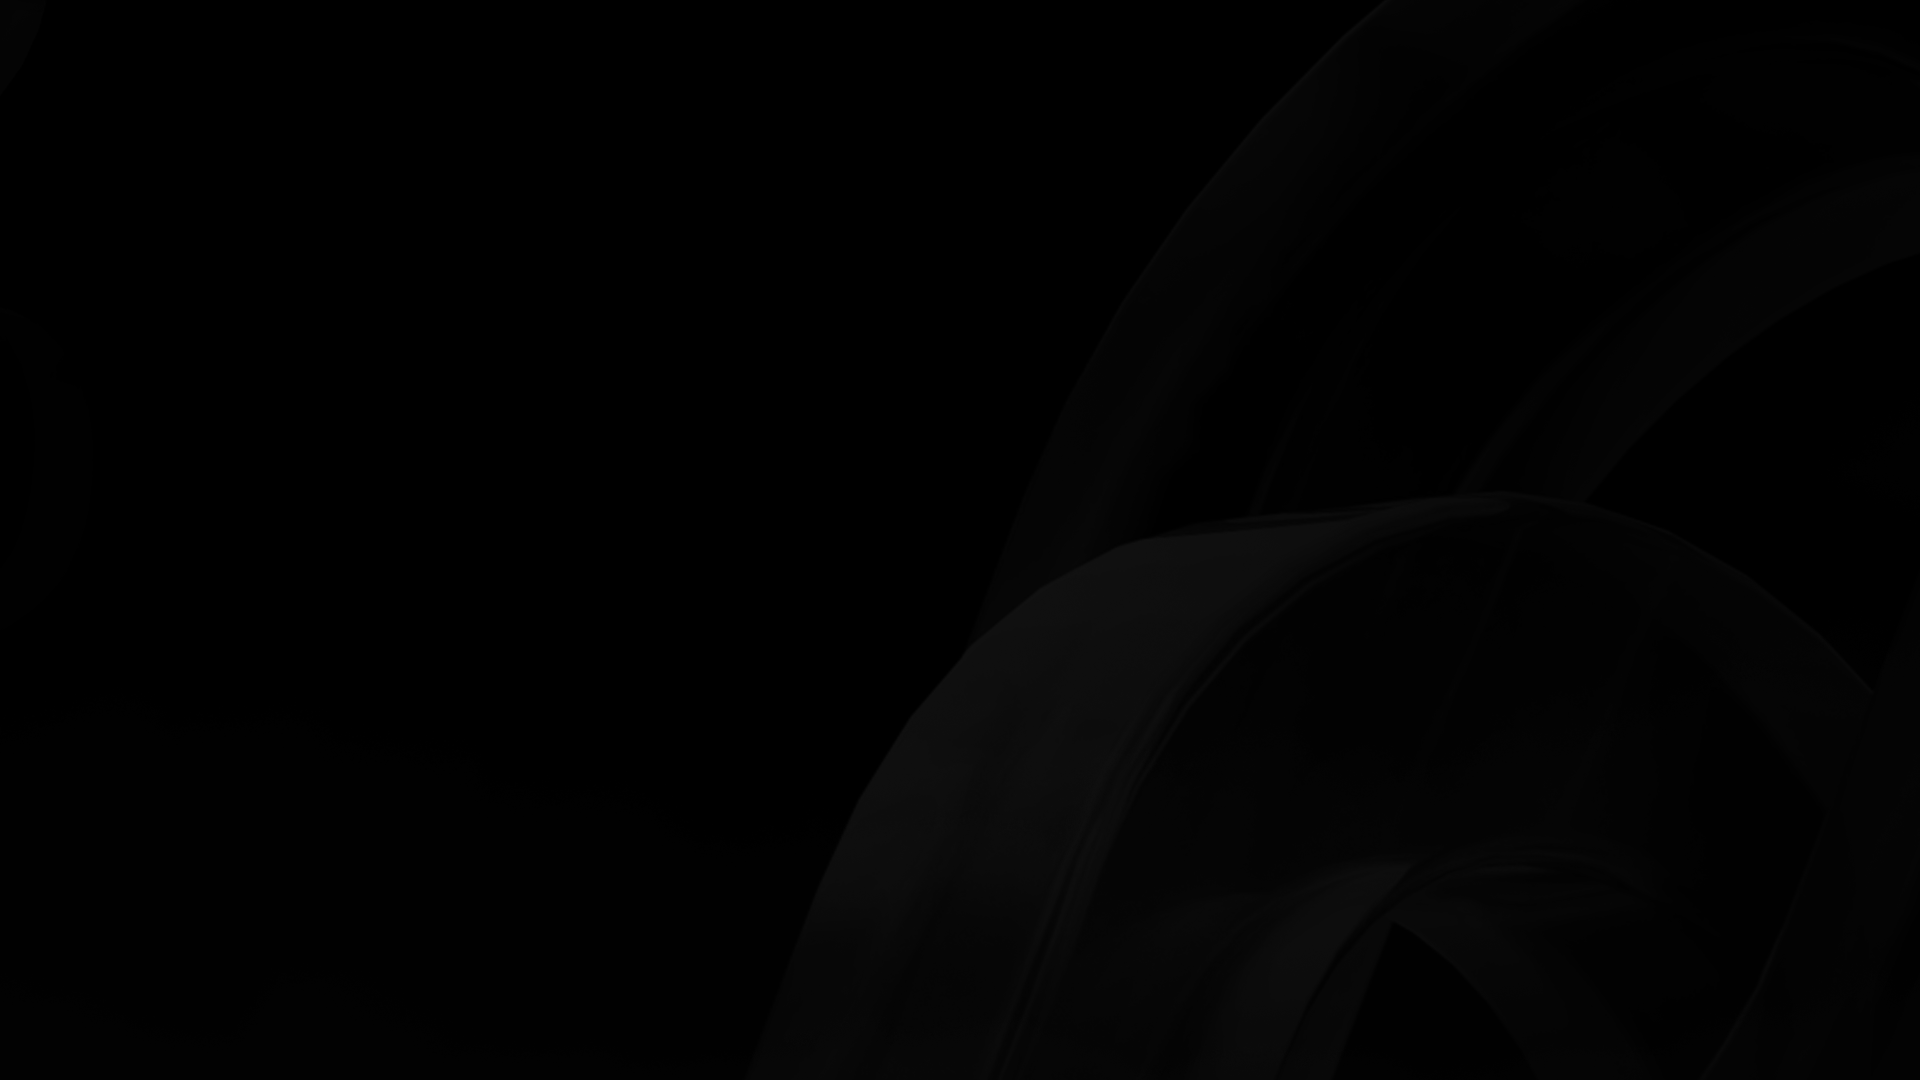
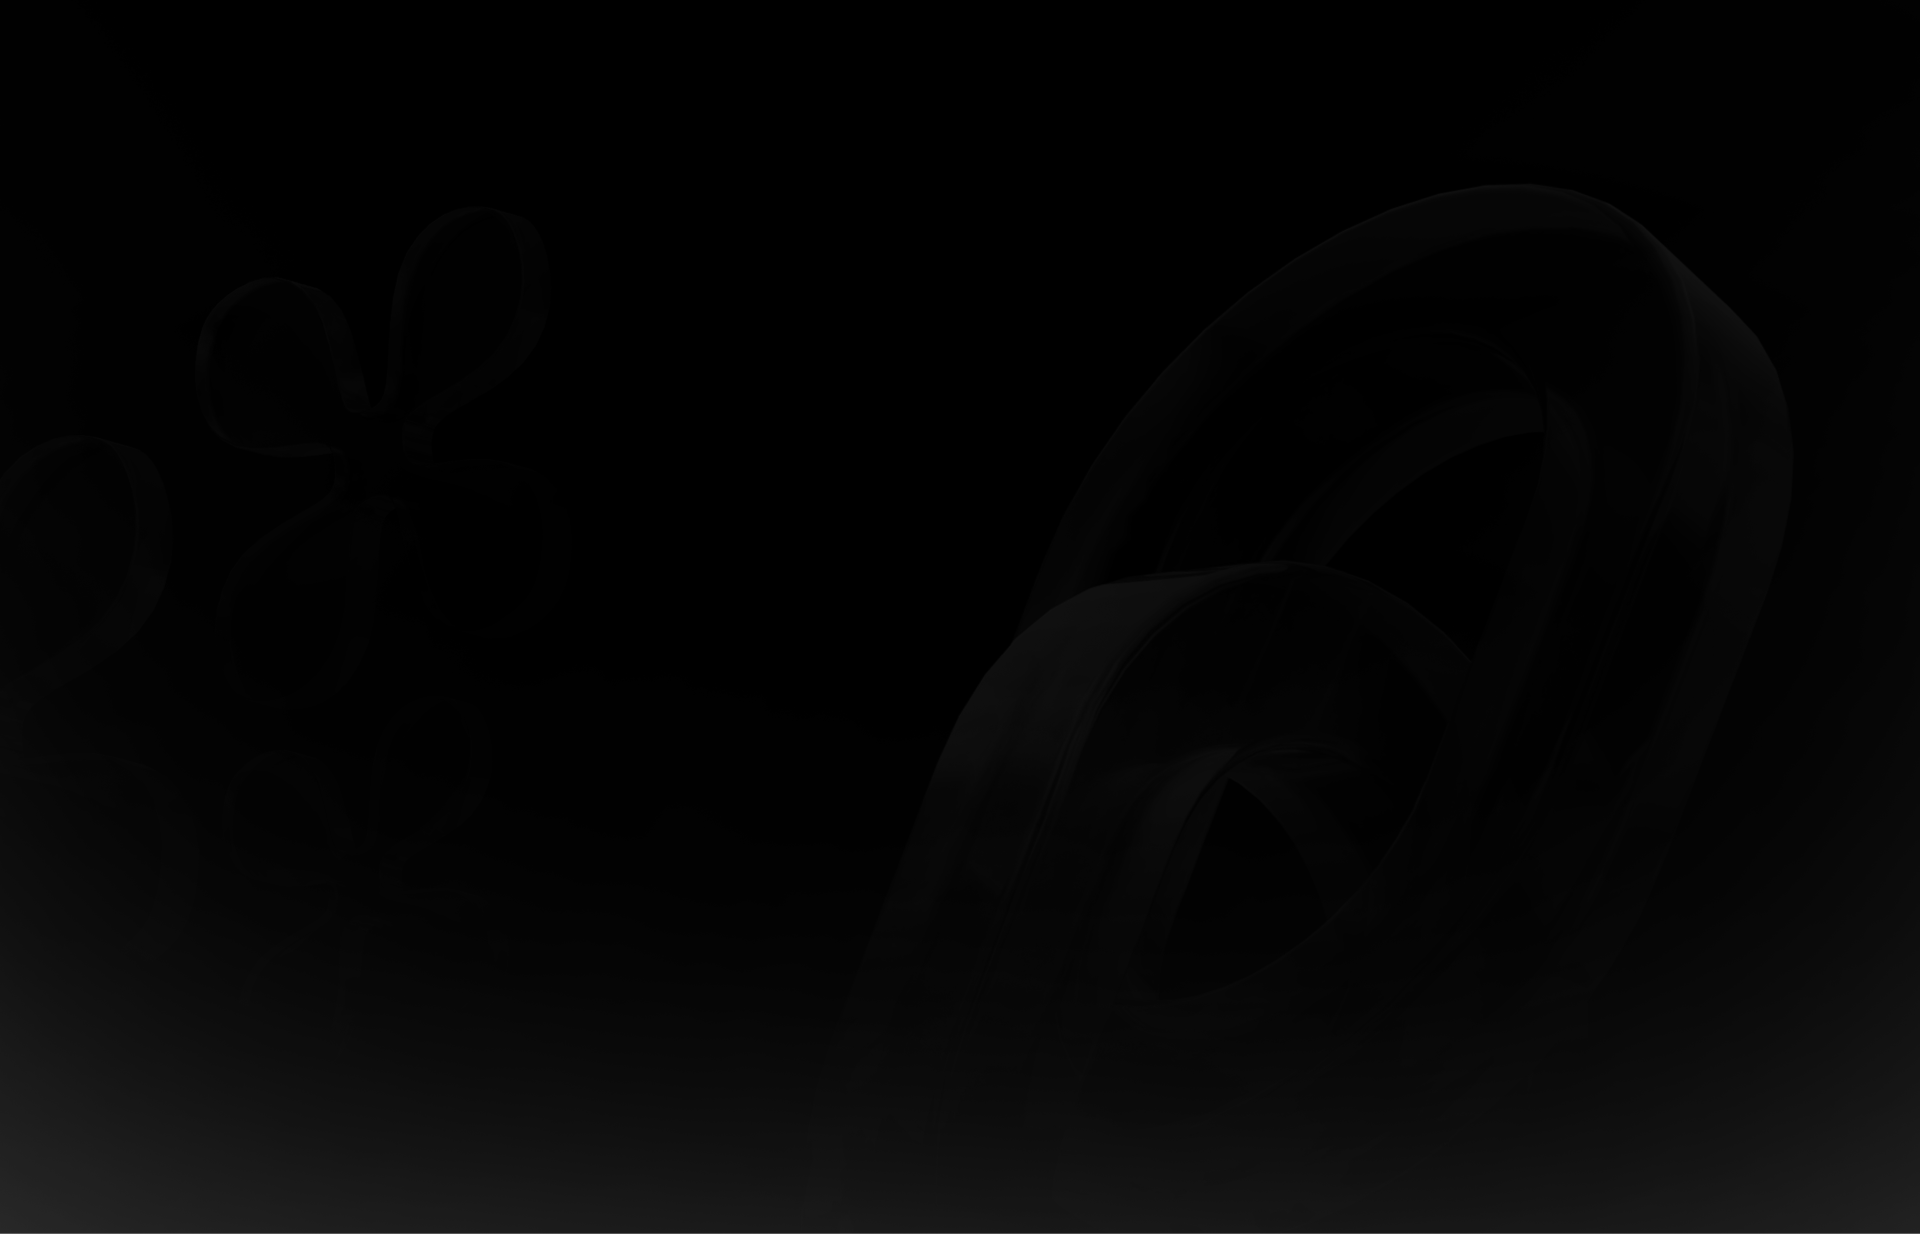
edits..

Changed region(s): [[0.0, 0.8556, 0.375, 1.0], [0.9062, 0.9167, 1.0, 1.0]]

diff --git a/src/App.css b/src/App.css
@@ -19,7 +19,10 @@
 }
 body {
   background-image: url("./assets/ФОН.png");
-  overflow: hidden;
+  background-size: cover;
+  background-repeat: no-repeat; 
+  background-position: center; 
+  overflow: hidden; 
 }
 .wrapperCart {
   display: flex;
@@ -29,7 +32,7 @@ body {
   height: 100vh;
   width: 100vw;
   position: relative;
-  padding-top: 6rem;
+  padding-top: 3rem;
   box-sizing: border-box;
 }
 
@@ -71,9 +74,18 @@ body {
 }
 
 .traffic-info {
-  margin-left: 40px;
+  margin-left: 20px;
+  margin-top: 10px;
   display: flex;
   flex-wrap: wrap;
+}
+
+.imgDynamic {
+  border-radius: 50%;
+  width: 150px;
+  height: 150px;
+  margin-right: 10px;
+  object-fit: cover;
 }
 
 .imgDIv {
@@ -115,9 +127,9 @@ span {
 td {
   width: 33.33%;
   text-align: center;
-  font-size: 16px;
+  font-size: 17px;
   color: white;
-  height: 35px;
+  height: 40px;
   font-weight: 300;
 }
 th {
@@ -141,8 +153,8 @@ th {
   color: white;
   p {
     font-size: 19px;
-    font-weight: 500;
-    font-family: "Gilroy";
+    font-weight: 600;
+    font-family: "Atyp";
   }
 }
 

diff --git a/src/components/Cart/Cart.jsx b/src/components/Cart/Cart.jsx
@@ -6,7 +6,6 @@ function Cart() {
     const { year, logoUrl, entryDate, balance, transactions } = useParams();
 
     const parsedTransactions = JSON.parse(decodeURIComponent(transactions));
-    console.log("Params: ", { year, logoUrl, entryDate, balance, transactions });
 
     return (
         <div className="wrapperCart">
@@ -22,7 +21,7 @@ function Cart() {
                 <div className="card">
                     <div className="traffic-info">
                         <div className="imgDiv">
-                            <img src={logoUrl} alt="Traffic logo" />
+                            <img className='imgDynamic' src={logoUrl} alt="Traffic logo" />
                         </div>
                         <div>
                             <h1>Traffic:</h1>
